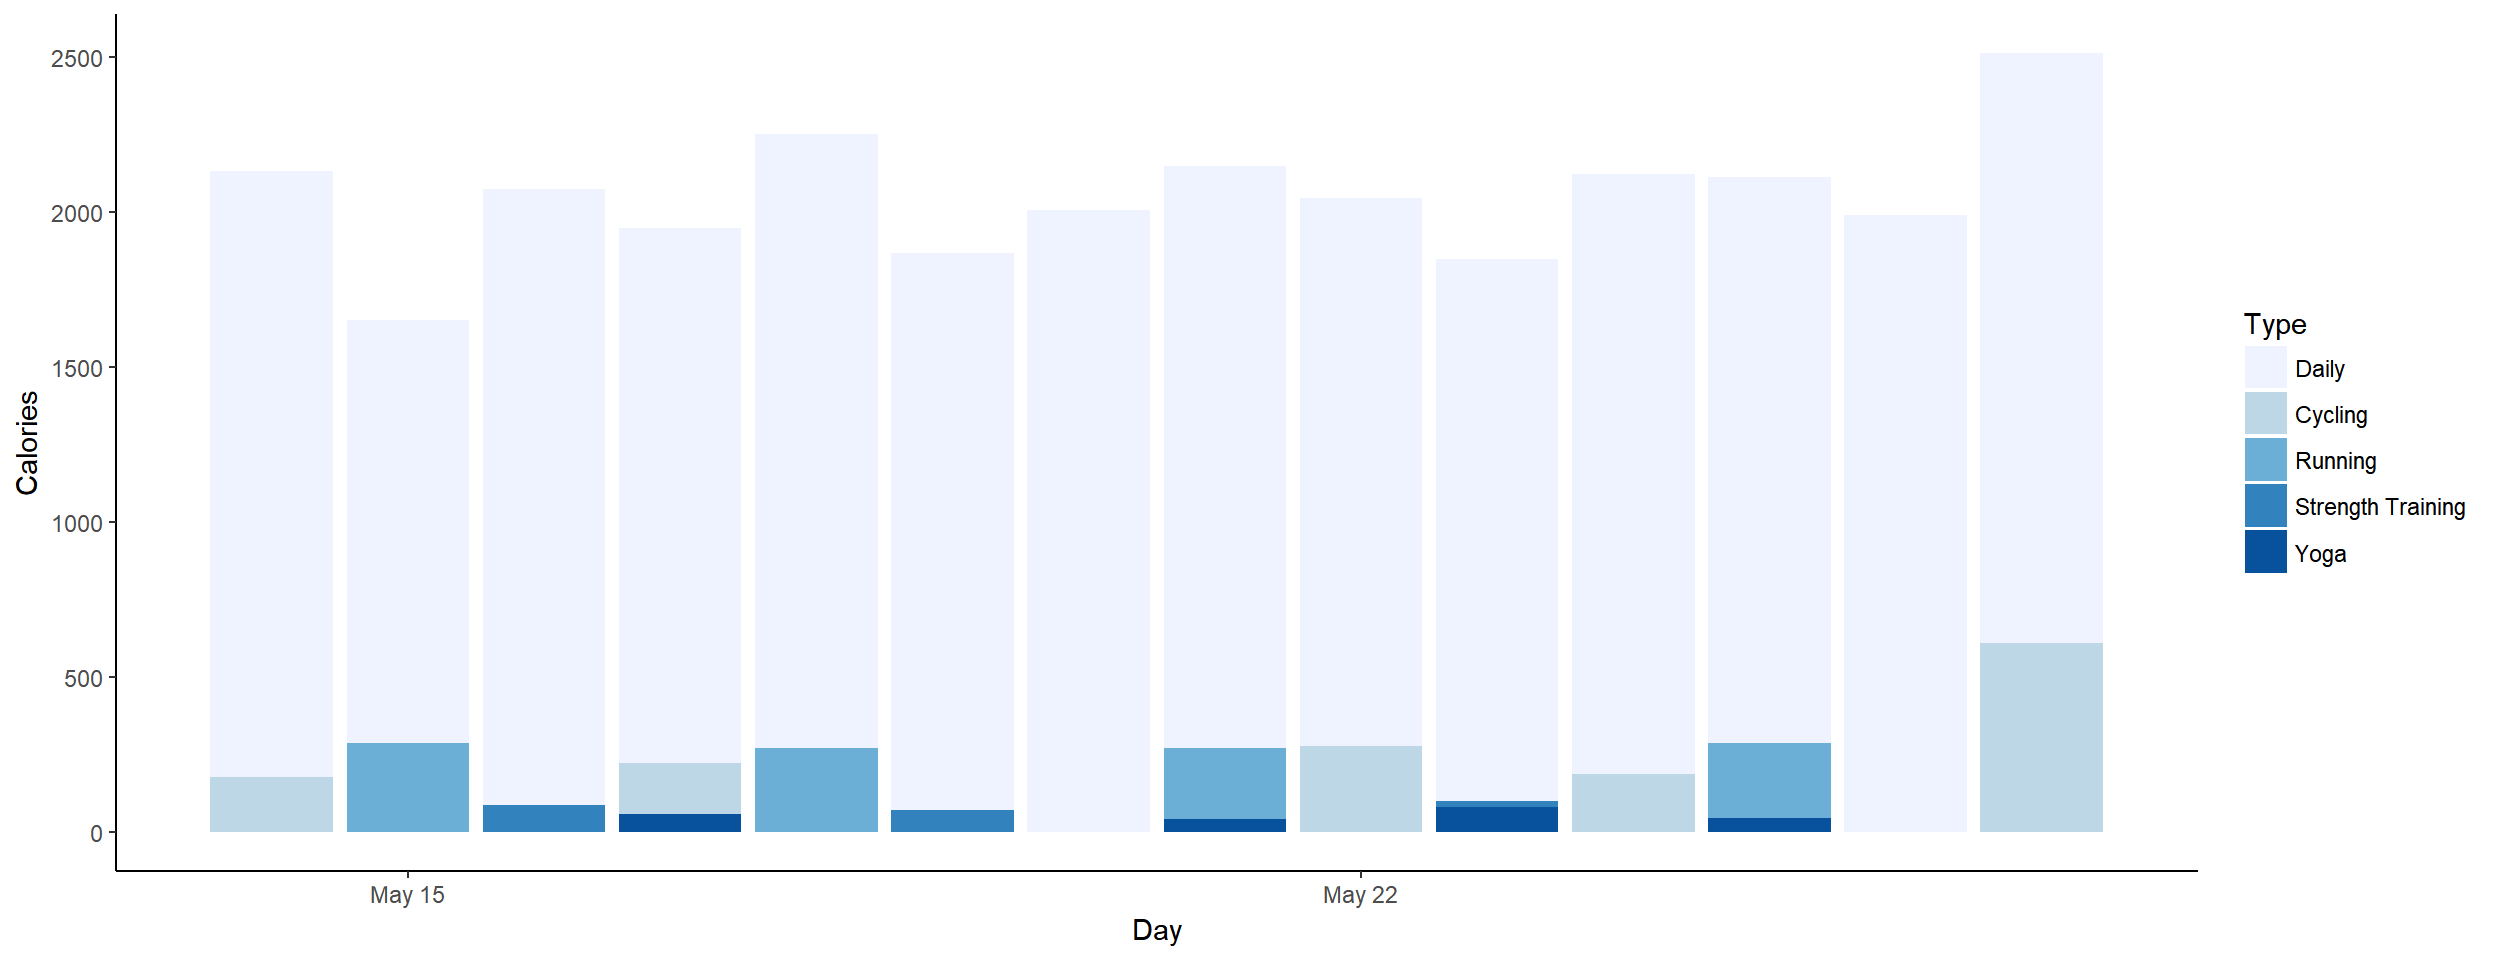
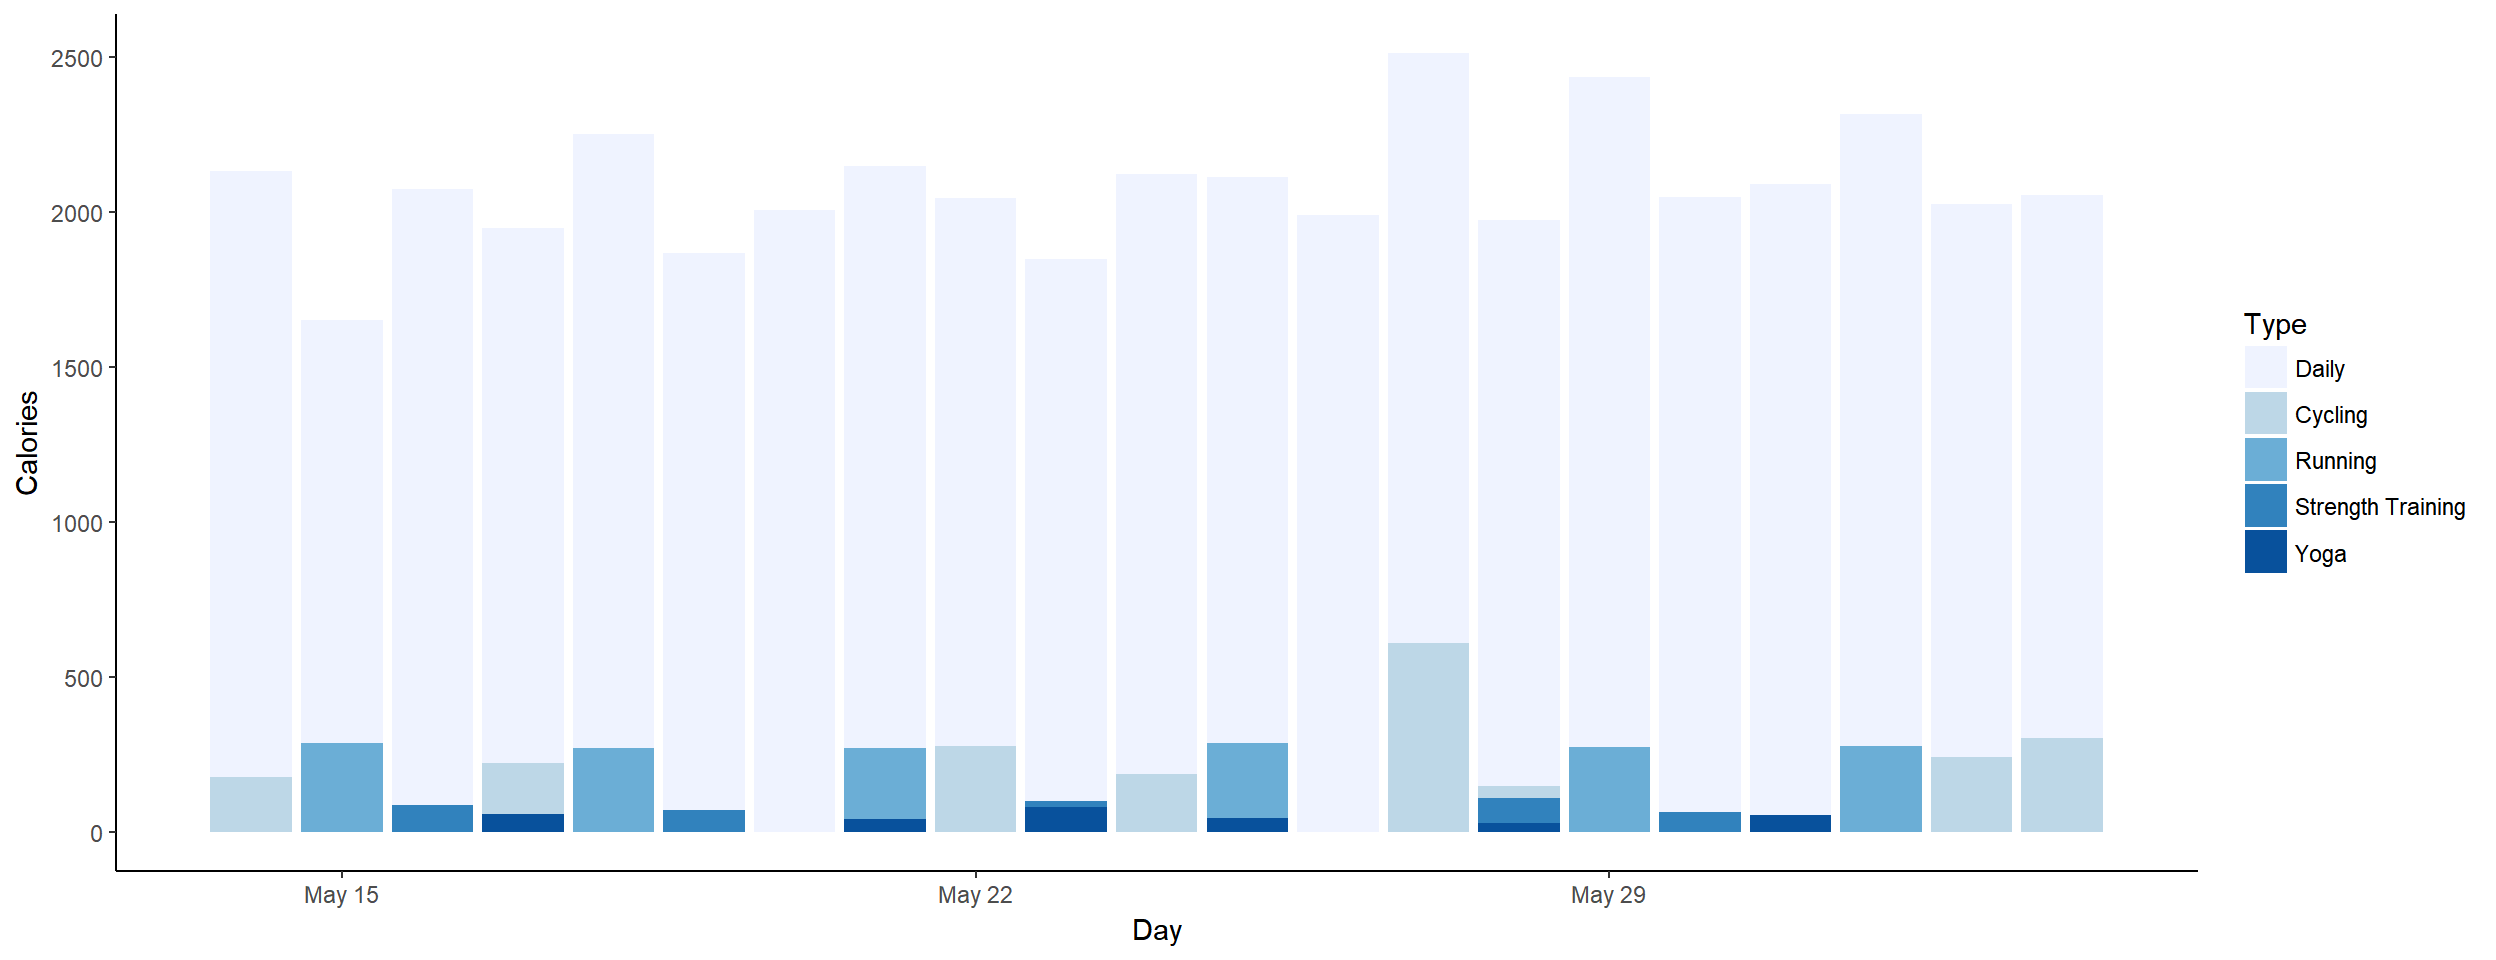
added week 3
plus a new plot in the overview and a few minor corrections

diff --git a/docs/WeekThree.html b/docs/WeekThree.html
@@ -11,7 +11,7 @@
 
 
 
-<title>Week one</title>
+<title>Week three</title>
 
 <script src="site_libs/jquery-1.11.3/jquery.min.js"></script>
 <meta name="viewport" content="width=device-width, initial-scale=1" />
@@ -253,13 +253,13 @@ $(document).ready(function () {
 
 
 
-<h1 class="title toc-ignore">Week one</h1>
+<h1 class="title toc-ignore">Week three</h1>
 
 </div>
 
 
 <pre class="r"><code># read in data
-data &lt;- read.table(&quot;Week1.csv&quot;, header = TRUE, sep = &quot;,&quot;, na.strings = c(&quot;NA&quot;, 
+data &lt;- read.table(&quot;Week3.csv&quot;, header = TRUE, sep = &quot;,&quot;, na.strings = c(&quot;NA&quot;, 
     &quot;--&quot;, &quot;&quot;))
 
 # convert time/date objects
@@ -276,7 +276,7 @@ dataf$Types &lt;- reorder(dataf$Type, a)
 # first look
 summary(data)
 dataf</code></pre>
-<p>My week one data contains activities I tracked from last Sunday (May 14) to Saturday (May 20), sorted into different types (cycling, running, etc.) together with relevant data, as well as some overall statistics for each day. Here is a table showing how much time I spent with each activity:</p>
+<p>My week three data contains activities I tracked from May 28th to June 3rd, again sorted into different types (cycling, running, etc.) together with relevant data, as well as some overall statistics for each day. Here is a table showing how much time I spent with each activity:</p>
 <pre class="r"><code>kable(ddply(dataf, .(Type), summarise, duration = sum(Time)), format = &quot;html&quot;, 
     table.attr = &quot;style=&#39;width:20%;&#39;&quot;)</code></pre>
 <table style="width:20%;">
@@ -296,7 +296,7 @@ duration
 Cycling
 </td>
 <td style="text-align:right;">
-01:22:56
+02:30:54
 </td>
 </tr>
 <tr>
@@ -312,7 +312,7 @@ NA
 Running
 </td>
 <td style="text-align:right;">
-00:59:57
+00:59:06
 </td>
 </tr>
 <tr>
@@ -320,7 +320,7 @@ Running
 Strength Training
 </td>
 <td style="text-align:right;">
-00:35:01
+00:41:07
 </td>
 </tr>
 <tr>
@@ -328,16 +328,17 @@ Strength Training
 Yoga
 </td>
 <td style="text-align:right;">
-00:30:00
+00:40:51
 </td>
 </tr>
 </tbody>
 </table>
 <p><br></p>
-<p>I spent a lot of workout time cycling, but I have to admit that I don’t actually cycle for exercise, but rather to get from A to B. Since the weather was good and we’re currently having some days off, we used our bikes for all kinds of errands… My legs were sore afterwards, though, so it’s still a workout, right?</p>
+<p>As expected, I cycled less than in the previous week, but it’s still a lot. That’s because I actively tracked short distances that wouldn’t otherwise appear here - but I didn’t do that for <a href="https://twitter.com/search?f=tweets&amp;vertical=default&amp;q=%23summerpain&amp;src=typd">#SummerPain</a> (the six minutes it takes to get from home to the office can hardly be called a workout). I’m currently participating in a German project called <a href="https://www.stadtradeln.de/home/">Stadtradeln</a>, where people from cities from all over Germany pledge to use their bike more and collect kilometers for their cities in a friendly competition. So I’m currently “mapping” my standard commute rides at least once to have a reference for entering my kilometers in that competition.<br />
+Other than that, I was out running twice again, and upped my strength training a bit, while I only had time for one 30 minute and one short yoga session.</p>
 <div id="workout-duration" class="section level3">
 <h3>Workout duration</h3>
-<p>Since workout duration is important for <a href="https://twitter.com/search?f=tweets&amp;vertical=default&amp;q=%23summerpain&amp;src=typd">#SummerPain</a>, a bar chart could be helpful to check on which days I exercised “enough”.</p>
+<p>Since workout duration is important for <a href="https://twitter.com/search?f=tweets&amp;vertical=default&amp;q=%23summerpain&amp;src=typd">#SummerPain</a>, I’m visualising it for each day with a bar chart.</p>
 <pre class="r"><code># extract day from activity start
 dataf$Day &lt;- as.Date(dataf$Start)
 
@@ -349,17 +350,17 @@ p1 &lt;- ggplot(datas, aes(x = Day, y = Time, fill = Type)) + geom_bar(stat = &q
 p1 &lt;- p1 + scale_y_chron(labels = date_format(&quot;%Hh %Mm %Ss&quot;))
 p1 &lt;- p1 + theme_classic() + scale_x_date(date_breaks = &quot;1 day&quot;, date_labels = &quot;%B %d&quot;)
 p1</code></pre>
-<p><img src="WeekOne_files/figure-html/PlotTime-1.png" width="672" /></p>
-<p>On the first day, we were cycling to run errands and get dinner, so I tracked two separate instances, almost adding up to 30 minutes of cardio that day. With my lack of previous exercise, this was already quite enough.<br />
-The running workout on May 15th lasted for almost 30 minutes (29:50 min), because I’ve become “too fast” on our usual route. Since we’re going to move in a month and have to find a totally new route then, I’m not willing to change the routine now, though. However long the run takes, it’s one cardio workout.<br />
-May 16th was a strength day with additional cycling to run more errands - one strength workout completed.<br />
-Since I’m using yoga for flexibility training and stretching (as opposed to cardio or strength) the two cycling blocks will have to be enough to count for another workout on May 17th.<br />
-Running on May 18th was slow and painful - at least that means I was out “long enough” (30:07 min). ;-)<br />
-May 19th was a bit more than 15 minutes strength training again, and May 20th was an impromptu rest day, where we were busy organising the move and moving some unimportant stuff.</p>
+<p><img src="WeekThree_files/figure-html/PlotTime-1.png" width="672" /></p>
+<p>May 28th was a strength day, followed by ten minutes of yoga stretches. All of that happened after we worked in our new flat and cycled to get ice cream in the late afternoon.<br />
+I started the work week (after 1.5 weeks of vacation) with almost 30 minutes of running and later tracked two of my most common commuting cycle routes.<br />
+On May 30th I only had time for a quick core strength training session, and May 31st was so exhaustingly busy I only did yoga to relax.<br />
+Thursday, June 1st was another running day, with a different cycling route to be tracked.<br />
+On June 2nd we cycled to the new flat after work, and then to our favourite Biergarten for dinner.<br />
+June 3rd saw another trip into the city for errands, which always yields enough workout minutes (and kilometers).</p>
 </div>
 <div id="heart-rate-data" class="section level3">
 <h3>Heart rate data</h3>
-<p>Measuring the duration of workouts is one thing, but my Garmin data of course provides a lot more information. For example, I wonder if I should count my rather slow cycling as cardio workout (because cycling usually is for cardio) or rather as strength training (since I got sore legs). A look at my heart rate (HR) data might be helpful to answer that question, and luckily I have my average and peak heart rate for each workout at hand.</p>
+<p>In the <a href="Overview.html">overview</a>, I’m showing my average and maximum heart rates per workout type as box plots for the different calendar weeks, but for weekly data I’ll stick to simple data points.</p>
 <pre class="r"><code># melt HR data
 HRdata &lt;- melt(dataf, id.vars = c(&quot;Activity&quot;, &quot;Types&quot;, &quot;Day&quot;), measure.vars = c(&quot;Avg.HR&quot;, 
     &quot;Max.HR&quot;, &quot;Resting.HR&quot;))
@@ -369,14 +370,12 @@ p2 &lt;- ggplot(data = HRdata, aes(x = Day, y = value, colour = variable)) + geo
 p2 &lt;- p2 + facet_wrap(~factor(Types), nrow = 3)
 p2 &lt;- p2 + theme_bw() + labs(y = &quot;Heart Rate (bpm)&quot;)
 p2</code></pre>
-<p><img src="WeekOne_files/figure-html/PlotHR-1.png" width="672" /></p>
-<p>Running definitely results in higher average and maximum heart rates compared to cycling, but cycling at least stays above the 100 bpm mark also for the average heart rate. According to that <a href="https://en.wikipedia.org/wiki/Aerobic_exercise#/media/File:Exercise_zones_Fox_and_Haskell.svg">Fox and Haskell</a> formula thing, I’m moving in the “Fitness” zone when cycling, while running pushes my heart all the way up to anaerobic or even maximum effort zones. So, if I average both workout types together I should be fine for cardio, right? :-D<br />
-Strength training gets less of a raise out of my heart rate, and yoga is of course relaxed and not exercise in any HR sense.<br />
-Just for fun I also added my daily resting heart rate (RHR) to the plot, which varied from 51 to 54 bpm that week. I think it was lower when I used a Microsoft Band 2 compared to now, but that could be due to different algorithms calculating that metric. According to some charts I found online (while I don’t know anything about this scientifically) I’m still very well off with my current RHR, so I’m happy.</p>
+<p><img src="WeekThree_files/figure-html/PlotHR-1.png" width="672" /></p>
+<p>This past week, cycling was again more transportation than exercise, and the other heart rates didn’t change much from the previous weeks. Strength training can sometimes also get my heart pumping, though. ;-)</p>
 </div>
 <div id="calorie-burn" class="section level3">
 <h3>Calorie burn</h3>
-<p>The third metric I definitely want to include is calorie burn, since I always think it’s interesting to know what difference exercise makes compared to a workout-free day.</p>
+<p>The third metric I wanted to include is calorie burn, since I always think it’s interesting to know what difference exercise makes compared to a workout-free day.</p>
 <pre class="r"><code># reorder types for this plot
 b &lt;- recode(as.numeric(as.factor(dataf$Types)), &quot;1=2; 2=3; 3=4; 4=5; 5=1&quot;)
 dataf$Types &lt;- reorder(dataf$Type, b)
@@ -390,21 +389,20 @@ p3 &lt;- ggplot(datacm, aes(x = Day, y = Calories, fill = Type)) + geom_bar(stat
     position = &quot;identity&quot;) + scale_fill_brewer()
 p3 &lt;- p3 + theme_classic() + scale_x_date(date_breaks = &quot;1 day&quot;, date_labels = &quot;%B %d&quot;)
 p3</code></pre>
-<p><img src="WeekOne_files/figure-html/PlotCalories-1.png" width="672" /></p>
-<p>Not surprisingly, running burns the most calories. What does surprise me is that this doesn’t seem to have much influence over my general daily calorie burn, since there’s quite a difference between the two running days. Maybe my overall daily activity has a greater influence than actual exercise?</p>
+<p><img src="WeekThree_files/figure-html/PlotCalories-1.png" width="672" /></p>
+<p>Running days see the highest calorie burn this week, while even days involving lots of cycling can hardly be discerned from those where I did (almost) nothing.</p>
 <pre class="r"><code># subset for only daily data
 datad &lt;- dataf[dataf$Type == &quot;Daily&quot;, ]
 
 p4 &lt;- ggplot(datad, aes(x = Day, y = Steps, colour = Calories)) + geom_point()
 p4 &lt;- p4 + theme_classic() + scale_x_date(date_breaks = &quot;1 day&quot;, date_labels = &quot;%B %d&quot;)
 p4</code></pre>
-<p><img src="WeekOne_files/figure-html/PlotSteps-1.png" width="672" /></p>
-<p>The days with the lowest calorie burn are not the days with the lowest step count. May 15th does have a lower step count than May 18th (the other running day), though. And May 20th, with no specific exercise, has the most steps, but one of the lower calorie burns.<br />
-Overall, I find it difficult to explain these differences using only exercise and step data. A deeper look into my data revealed that Garmin calculates my basal metabolic rate (BMR) new for each day. It seems to be 1698 calories on most days, but on May 15th it’s down to 1074 calories, which explains the difference despite the OK step count (in fact, I did get quite a number of “active calories” that day). There is no explanation for this difference that I can find, though.</p>
+<p><img src="WeekThree_files/figure-html/PlotSteps-1.png" width="672" /></p>
+<p>My step count’s doesn’t seem to play much of a role in this week’s calorie burns, as the day with the highest step count has a noticeably lower burn than the running days. My working habits play a big role in my step counts, though. Running in the morning helps, but otherwise I don’t get many steps in when I cycle to work and back. Wednesday is the exception here, because I worked in another city and commuted by train and on foot, rather than cycling. That always yields a lot of steps, but obviously doesn’t burn as many calories as running would (and not much more than cycling shorter distances).</p>
 </div>
 <div id="summary" class="section level3">
 <h3>Summary</h3>
-<p>In summary - when counting cycling as exercise - I completed six workouts in the first week of <a href="https://twitter.com/search?f=tweets&amp;vertical=default&amp;q=%23summerpain&amp;src=typd">#SummerPain</a>. This brings me up to <strong>6/100</strong> workouts as of May 20th.</p>
+<p>In summary, I again completed six workouts in the third week of <a href="https://twitter.com/search?f=tweets&amp;vertical=default&amp;q=%23summerpain&amp;src=typd">#SummerPain</a> (ignoring the day that involved only walking and yoga). This brings me up to <strong>18/100</strong> workouts as of June 3rd.</p>
 </div>
 
 

diff --git a/docs/Overview.html b/docs/Overview.html
@@ -205,6 +205,9 @@ $(document).ready(function () {
     <li>
       <a href="WeekTwo.html">Week Two</a>
     </li>
+    <li>
+      <a href="WeekThree.html">Week Three</a>
+    </li>
   </ul>
 </li>
       </ul>
@@ -260,9 +263,11 @@ week1 &lt;- read.table(&quot;Week1.csv&quot;, header = TRUE, sep = &quot;,&quot;
     &quot;--&quot;, &quot;&quot;))
 week2 &lt;- read.table(&quot;Week2.csv&quot;, header = TRUE, sep = &quot;,&quot;, na.strings = c(&quot;NA&quot;, 
     &quot;--&quot;, &quot;&quot;))
+week3 &lt;- read.table(&quot;Week3.csv&quot;, header = TRUE, sep = &quot;,&quot;, na.strings = c(&quot;NA&quot;, 
+    &quot;--&quot;, &quot;&quot;))
 
 # combine data
-data &lt;- rbind(week2, week1)
+data &lt;- rbind(week3, week2, week1)
 
 # convert time/date objects
 data$Start &lt;- as.POSIXct(data$Start, format = &quot;%a, %d %B %Y %H:%M&quot;)
@@ -330,7 +335,22 @@ p3</code></pre>
 </div>
 <div id="summary" class="section level3">
 <h3>Summary</h3>
-<p><strong>12/100</strong> workouts done.</p>
+<pre class="r"><code># calculate workout count (one per day, if strength, running or cycling)
+datac$Count &lt;- ifelse(datac$Cycling &gt; 0 | datac$Running &gt; 0 | datac$`Strength Training` &gt; 
+    0, 1, 0)
+
+# x axis limits
+lims &lt;- as.Date(c(&quot;2017-05-14&quot;, &quot;2017-09-15&quot;))
+
+p4 &lt;- ggplot(datac, aes(x = Day, y = cumsum(Count))) + geom_step()
+p4 &lt;- p4 + scale_x_date(limits = lims) + ylim(c(0, 100))
+p4 &lt;- p4 + geom_hline(yintercept = 100) + geom_vline(xintercept = as.numeric(as.Date(&quot;2017-09-15&quot;)))
+p4 &lt;- p4 + geom_line(data = data.frame(x = lims, y = c(0, 100)), aes(x = x, 
+    y = y), col = &quot;grey&quot;)
+p4 &lt;- p4 + theme_classic() + labs(y = &quot;Workout Count&quot;, x = &quot;Day&quot;)
+p4</code></pre>
+<p><img src="Overview_files/figure-html/WorkoutCount-1.png" width="672" /></p>
+<p><strong>18/100</strong> workouts done, or better, I worked out on 18 days so far, out of 21 days since <a href="https://twitter.com/search?f=tweets&amp;vertical=default&amp;q=%23summerpain&amp;src=typd">#SummerPain</a> started.</p>
 <pre class="r"><code>kable(ddply(dataf, .(Type), summarise, duration = sum(Time), calories = sum(Calories)), 
     format = &quot;html&quot;, table.attr = &quot;style=&#39;width:30%;&#39;&quot;)</code></pre>
 <table style="width:30%;">
@@ -353,10 +373,10 @@ calories
 Cycling
 </td>
 <td style="text-align:right;">
-04:24:40
+06:55:34
 </td>
 <td style="text-align:right;">
-1549
+2411
 </td>
 </tr>
 <tr>
@@ -367,7 +387,7 @@ Daily
 NA
 </td>
 <td style="text-align:right;">
-28727
+43681
 </td>
 </tr>
 <tr>
@@ -375,10 +395,10 @@ NA
 Running
 </td>
 <td style="text-align:right;">
-01:59:12
+02:58:18
 </td>
 <td style="text-align:right;">
-1118
+1669
 </td>
 </tr>
 <tr>
@@ -386,10 +406,10 @@ Running
 Strength Training
 </td>
 <td style="text-align:right;">
-00:58:26
+01:39:33
 </td>
 <td style="text-align:right;">
-258
+434
 </td>
 </tr>
 <tr>
@@ -397,10 +417,10 @@ Strength Training
 Yoga
 </td>
 <td style="text-align:right;">
-01:29:59
+02:10:50
 </td>
 <td style="text-align:right;">
-230
+316
 </td>
 </tr>
 </tbody>

diff --git a/docs/index.html b/docs/index.html
@@ -205,6 +205,9 @@ $(document).ready(function () {
     <li>
       <a href="WeekTwo.html">Week Two</a>
     </li>
+    <li>
+      <a href="WeekThree.html">Week Three</a>
+    </li>
   </ul>
 </li>
       </ul>
@@ -259,7 +262,7 @@ $(document).ready(function () {
 <pre class="r"><code>knitr::include_graphics(&quot;weekend_coding.jpg&quot;)</code></pre>
 <p><img src="weekend_coding.jpg" width="250px" style="display: block; margin: auto;" /></p>
 <p>Therefore, I thought it could be fun to weekly visualise my progress with the <a href="https://twitter.com/search?f=tweets&amp;vertical=default&amp;q=%23summerpain&amp;src=typd">#SummerPain</a> hashtag on twitter. <a href="https://twitter.com/search?f=tweets&amp;vertical=default&amp;q=%23summerpain&amp;src=typd">#SummerPain</a> was started by <a href="https://twitter.com/Helena_LB">Helena</a> just at the right time - I’d participated in <a href="https://twitter.com/search?f=tweets&amp;q=%2340LentPain&amp;src=typd">#40LentPain</a> before Easter, but then we were on holiday for a week (with no exercise) and I came back with strep throat, so I hadn’t exercised much since then. I hope that <a href="https://twitter.com/search?f=tweets&amp;vertical=default&amp;q=%23summerpain&amp;src=typd">#SummerPain</a> will help me get into the habit again, forcing me to find the time for workouts in my rather full schedule.</p>
-<p>By the way, <a href="https://twitter.com/search?f=tweets&amp;vertical=default&amp;q=%23summerpain&amp;src=typd">#SummerPain</a> means 100 workouts this summer, starting May 14th, with September 15th as deadline, and a workout is defined as either 30 minutes of cardio or 15 minutes of strength training. I might not always adhere to these rules, though, but more on that in <a href="WeekOne.html">week one</a>.</p>
+<p>By the way, <a href="https://twitter.com/search?f=tweets&amp;vertical=default&amp;q=%23summerpain&amp;src=typd">#SummerPain</a> means 100 workouts this summer, starting May 14th, with September 15th as deadline, and a workout is defined as either 30 minutes of cardio or 15 minutes of strength training. I might not always adhere to these rules, though, as I rather count “days where I’ve worked out”, as you can see in the <a href="overview.html">overview</a>.</p>
 
 
 

diff --git a/docs/README.html b/docs/README.html
@@ -194,6 +194,9 @@ $(document).ready(function () {
     <li>
       <a href="WeekTwo.html">Week Two</a>
     </li>
+    <li>
+      <a href="WeekThree.html">Week Three</a>
+    </li>
   </ul>
 </li>
       </ul>

diff --git a/docs/WeekTwo.html b/docs/WeekTwo.html
@@ -205,6 +205,9 @@ $(document).ready(function () {
     <li>
       <a href="WeekTwo.html">Week Two</a>
     </li>
+    <li>
+      <a href="WeekThree.html">Week Three</a>
+    </li>
   </ul>
 </li>
       </ul>
